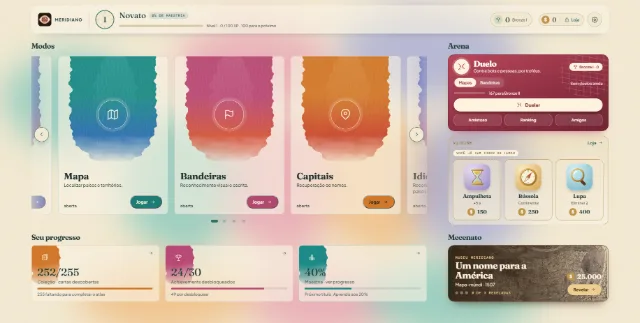
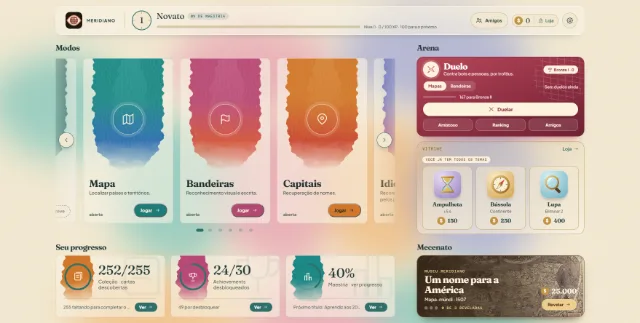
feat(hub): modos Gentílicos e Moedas "em breve", progresso com anéis, botão Amigos e largura de 1560 px
Carrossel: dois cartões "Em breve" (Gentílicos, Moedas). Cabeçalho: sai o chip de elo (duplicava o Duelo), entra Amigos,
marca maior e barra de XP no meio. Seu progresso: tiles com anel, número grande, marca d'água e botão Ver.
Hub e Loja limitados a 1560 px; prévias dos temas regeradas para o Hub atual.

diff --git a/src/hub.css b/src/hub.css
@@ -10,8 +10,8 @@
 /* ───────── header fino ───────── */
 .hx .hub-bar{display:flex;align-items:center;gap:18px;height:80px;min-height:0;padding:0 18px;margin:0 0 4px;overflow:visible;border-radius:18px}
 .hx .hub-meridian,.hx .hub-rule,.hx .hub-eyebrow{display:none}
-.hx .hub-brand{display:flex;flex-direction:row;align-items:center;gap:10px;flex:none;padding:0 18px 0 0;border-right:1px solid var(--line);color:var(--ink);font-size:11.5px;font-weight:800;letter-spacing:.12em;white-space:nowrap}
-.hx .hub-brand .brand-logo{width:38px;height:38px}
+.hx .hub-brand{display:flex;flex-direction:row;align-items:center;gap:12px;flex:none;padding:0 26px 0 8px;border-right:1px solid var(--line);color:var(--ink);font-size:11.5px;font-weight:800;letter-spacing:.12em;white-space:nowrap}
+.hx .hub-brand .brand-logo{width:46px;height:46px;border-radius:12px}
 .hx .hub-brand span{padding-left:0}
 .hx .hub-player{display:grid;grid-template-columns:auto minmax(0,1fr);grid-template-areas:"ring head" "ring xp";column-gap:14px;row-gap:5px;align-items:center;flex:1;min-width:0;padding:0;border:0;justify-content:start}
 .hx .hub-level{grid-area:ring;width:54px;height:54px;margin:0}
@@ -27,10 +27,12 @@
 .hx .hub-xp{grid-area:xp;display:flex;flex-wrap:nowrap;align-items:center;gap:10px;margin:0;min-width:0;white-space:nowrap}
 .hx .hub-xp-label{flex:none}
 .hx .hub-xp-next{display:inline}
-.hx .hub-track{flex:0 1 240px;height:6px;margin:0}
+.hx .hub-track{flex:1 1 240px;max-width:560px;height:7px;margin:0}
 .hx .hub-xp-label{font-size:11px;color:var(--muted);overflow:hidden;text-overflow:ellipsis}
+.hx .hub-friends{display:inline-flex;align-items:center;gap:8px;flex:none;padding:0 16px 0 12px;height:42px;border:1px solid var(--line);border-radius:99px;background:var(--paper);color:var(--ink);font:700 12.5px 'Plus Jakarta Sans',sans-serif}
+.hx .hub-friends:hover{border-color:var(--green);color:var(--green)}
+@media (min-width:1280px){.hx .hub-badge{width:auto;padding:3px 11px 3px 8px;gap:6px}.hx .hub-badge-label{position:static;width:auto;height:auto;overflow:visible;clip:auto;font:700 11px 'Plus Jakarta Sans',sans-serif}}
 .hx .hub-stats{display:flex;align-items:center;gap:10px;flex:none;padding:0;border:0;justify-content:flex-end}
-.hx .hub-rank{display:inline-flex;align-items:center;gap:7px}
 .hx .hub-coin{margin:0;padding:5px 12px 5px 6px;gap:8px}
 .hx .hub-coin strong{font-size:18px}
 .hx .hub-coin-store{display:inline-flex;align-items:center;gap:5px;margin-left:2px;padding-left:9px;border-left:1px solid var(--line);color:var(--green);font:700 11.5px 'Plus Jakarta Sans',sans-serif}
@@ -41,7 +43,7 @@
 /* A página usa a largura que a janela der (até 1760 px): o Hub é a tela de entrada e as laterais ficavam vazias. A coluna da direita (Duelo, Vitrine) cresce
    com a janela e o vão entre as duas colunas também; os cartões de modo não encolhem, quem cede é o vão. */
 @media (min-width:1024px){
-  .hx.hub-content{max-width:1760px;padding-inline:clamp(24px,2.8vw,56px)}
+  .hx.hub-content{max-width:1560px;padding-inline:clamp(24px,2.8vw,56px)}
 }
 .hx-grid{display:grid;grid-template-columns:minmax(0,1fr) clamp(320px,24vw,460px);grid-template-rows:auto auto;column-gap:clamp(30px,3.2vw,60px);align-items:stretch}
 .hx-cell{display:flex;flex-direction:column;min-width:0}
@@ -85,6 +87,11 @@
 .hx-dots button{position:relative;width:26px;height:22px;padding:0;border:0;background:transparent}
 .hx-dots button::before{content:"";position:absolute;left:8px;top:7px;width:10px;height:8px;border-radius:99px;background:rgba(47,111,106,.28);transition:width .2s,left .2s}
 .hx-dots button[aria-current=true]::before{left:3px;width:20px;background:var(--green)}
+
+/* modos que ainda vêm (Gentílicos, Moedas): cartão na tinta do tema, sem jogar */
+[data-fam=gentilico],[data-fam=moedas]{--h:var(--green);--hb:var(--green);--hg:var(--green);--h2:var(--green);--on:#fff4df}
+.hx .family.hx-mode.is-soon{filter:saturate(.55);border-style:dashed}
+.hx-soon{display:inline-flex;align-items:center;gap:6px;padding:8px 14px;border:1.5px dashed currentColor;border-radius:99px;color:var(--ink);font:800 12px 'Plus Jakarta Sans',sans-serif;white-space:nowrap}
 
 /* ───────── Duelo ───────── */
 .hx-duel{position:relative;display:grid;gap:9px;padding:12px 16px 14px;border-radius:18px;border:1px solid var(--duel-c);background:linear-gradient(160deg,var(--duel-a),var(--duel-b) 60%,var(--duel-c));color:#fff4df;box-shadow:0 16px 26px -18px var(--duel-a);overflow:hidden;text-align:left}
@@ -158,18 +165,30 @@
 .hx-supply-art[data-supply=bussola]{background:radial-gradient(circle at 30% 22%,#fbebc4,#d2a24c)}
 .hx-supply-art[data-supply=ampulheta]{background:radial-gradient(circle at 30% 22%,#e7def5,#9582c0)}
 
-/* ───────── progresso (tiles verticais) ───────── */
+/* ───────── progresso (tiles com anel) ───────── */
 .hx-progress .section-label{margin-top:22px}
 .hx-progress .hub-progress-grid{flex:1;display:grid;grid-template-columns:repeat(3,minmax(0,1fr));gap:16px}
-.hx-progress .hub-progress-grid button{position:relative;display:grid;grid-template-columns:auto 1fr;grid-template-areas:"icon arrow" "text text";align-content:space-between;align-items:start;justify-items:stretch;gap:6px 8px;min-height:150px;height:100%;padding:14px 16px 13px;text-align:left}
-.hx-progress .hub-progress-icon{grid-area:icon;width:42px;height:42px}
-.hx-progress .hub-progress-icon svg{width:22px;height:22px}
-.hx-progress .hub-progress-grid button>svg{grid-area:arrow;position:static;justify-self:end;margin:0;color:var(--muted)}
-.hx-progress .hub-progress-text{grid-area:text;flex:none;display:grid;gap:0}
-.hx-progress .hub-progress-grid strong{font-size:30px;line-height:1;white-space:nowrap}
-.hx-progress .hub-progress-grid small{margin-top:4px;font-size:12.5px}
-.hx-progress .hub-progress-bar{display:block;height:5px;margin:9px 0 6px}
-.hx-progress .hub-progress-caption{display:block;font-size:11.5px;white-space:nowrap;overflow:hidden;text-overflow:ellipsis}
+.hx-progress .hub-progress-grid button{--tile:var(--green);position:relative;display:grid;grid-template-columns:auto minmax(0,1fr);grid-template-areas:"icon text" "foot foot";align-content:space-between;align-items:center;gap:12px 16px;min-height:170px;height:100%;padding:18px 20px 14px;overflow:hidden;text-align:left;transition:transform .15s,box-shadow .15s}
+.hx-progress .hub-progress-grid button:hover{transform:translateY(-3px);box-shadow:0 18px 28px -20px rgba(36,59,58,.6)}
+.hx-progress [data-tile=collection]{--tile:#b98a2e}.hx-progress [data-tile=achievements]{--tile:#b65f47}.hx-progress [data-tile=progress]{--tile:#2f8f83}
+:root[data-scheme=dark] .hx-progress [data-tile=collection]{--tile:#e8b84a}:root[data-scheme=dark] .hx-progress [data-tile=achievements]{--tile:#ee7968}:root[data-scheme=dark] .hx-progress [data-tile=progress]{--tile:#58d6d0}
+.hx-tile-mark{position:absolute;right:-26px;top:-30px;color:var(--tile);opacity:.07;pointer-events:none}
+.hx-tile-mark svg{width:170px;height:170px;stroke-width:1}
+.hx-progress .hub-progress-icon{grid-area:icon;position:relative;display:grid;place-items:center;width:62px;height:62px;margin:9px;border-radius:50%}
+.hx-progress .hub-progress-icon>svg:not(.hx-ring){width:30px;height:30px}
+.hx-progress .hub-progress-icon>svg.hx-ring{position:absolute;inset:-9px;width:calc(100% + 18px);height:calc(100% + 18px);margin:0;transform:rotate(-90deg)}
+.hx-ring circle{fill:none;stroke-width:4.5}
+.hx-ring-track{stroke:color-mix(in srgb,var(--tile) 20%,transparent)}
+.hx-ring-arc{stroke:var(--tile);stroke-linecap:round}
+.hx-progress .hub-progress-text{grid-area:text;display:grid;gap:0;min-width:0}
+.hx-progress .hub-progress-grid strong{font-size:36px;line-height:1;white-space:nowrap}
+.hx-progress .hub-progress-grid small{margin-top:5px;font-size:13px}
+.hx-progress .hub-progress-bar{display:none}
+.hx-tile-foot{grid-area:foot;position:relative;display:flex;align-items:center;justify-content:space-between;gap:10px;padding-top:11px;border-top:1px solid color-mix(in srgb,var(--tile) 24%,transparent)}
+.hx-progress .hub-progress-caption{display:block;min-width:0;font-size:12px;white-space:nowrap;overflow:hidden;text-overflow:ellipsis}
+.hx-tile-go{display:inline-flex;align-items:center;gap:5px;flex:none;padding:5px 12px;border-radius:99px;background:var(--tile);color:#fff;font:800 11.5px 'Plus Jakarta Sans',sans-serif}
+.hx-progress .hub-progress-grid button:hover .hx-tile-go{filter:brightness(.92)}
+:root[data-scheme=dark] .hx-tile-go{color:#0c1a24}
 
 /* ───────── Mecenato ───────── */
 .hx-mecenato .section-label{margin-top:22px}
@@ -220,10 +239,9 @@
   .hx .hub-track{flex:1 1 auto}
   .hx .hub-xp-label{display:none}
   .hx .hub-stats{gap:5px;padding:0;border:0}
-  .hx .hub-rank{padding:3px 9px;gap:4px;margin:0}
-  .hx .hub-rank i{display:none}
-  .hx .hub-rank small{display:none}
-  .hx .hub-rank strong{font-size:16px}
+  .hx .hub-friends{width:30px;height:30px;padding:0;justify-content:center}
+  .hx .hub-friends span{display:none}
+  .hx .hub-friends svg{width:17px;height:17px}
   .hx .hub-coin{margin:0;padding:3px 9px 3px 4px;gap:5px}
   .hx .hub-coin-store{display:none}
   .hx .hub-coin strong{font-size:14.5px}

diff --git a/src/components/screens.tsx b/src/components/screens.tsx
@@ -261,6 +261,11 @@ export function Hub({
   const isFamilyUnlocked = (item: (typeof familyItems)[number]) => item.family === "idiomas"
     ? unlocked("idiomas", "idioma-nome") || unlocked("idiomas", "idioma-pais")
     : unlocked(item.family, item.variant);
+  /** Modos que ainda vêm: aparecem no carrossel, sem jogar. */
+  const soonItems = [
+    { key: "gentilico", label: t.families.gentilico, description: t.hub.familyDescriptions.gentilico, icon: "people" as const },
+    { key: "moedas", label: t.families.moedas, description: t.hub.familyDescriptions.moedas, icon: "coins" as const },
+  ];
   const level = economy?.level ?? 1;
   const xpInLevel = Math.max(0, (economy?.xp ?? 0) - (economy?.xpBase ?? 0));
   const xpSpan = Math.max(1, (economy?.xpNext ?? 100) - (economy?.xpBase ?? 0));
@@ -300,6 +305,11 @@ export function Hub({
       </div>
     </div>;
   };
+  const soonCard = (item: (typeof soonItems)[number]) => <div key={item.key} data-fam={item.key} className="family hx-mode is-soon">
+    <div className="family-visual"><div className="family-geo" /><div className="family-icon"><Icon type={item.icon} /></div></div>
+    <div className="family-copy"><h3>{item.label}</h3><p>{item.description}</p></div>
+    <div className="family-footer"><span className="hx-stat" /><span className="hx-soon"><Icon type="clock" size={14} /> {t.hub.soon}</span></div>
+  </div>;
   return (
     <main className="content hub-content hx">
       <h1 className="sr-only">Meridiano</h1>
@@ -324,7 +334,7 @@ export function Hub({
           </div>
         </div>
         <div className="hub-stats">
-          {onOpenLeague && <button type="button" className="hub-rank" data-league={league.league} aria-label={t.duel.chipAria(formatNumber(trophies), leagueLabel)} title={leagueLabel} onClick={onOpenLeague}><i aria-hidden="true"><Icon type="achievements" size={15} /></i><strong>{formatNumber(trophies)}</strong><small>{leagueLabel}</small></button>}
+          {arenas?.onFriends && <button type="button" className="hub-friends" aria-label={t.hub.duelFriends} title={t.hub.duelFriends} onClick={arenas.onFriends}><Icon type="people" size={19} /><span>{t.hub.duelFriends}</span></button>}
           <button type="button" className="hub-coin" aria-label={t.hub.coinAria(formatNumber(economy?.balance ?? 0))} title={t.nav.store} onClick={() => onNavigate?.("store")}><i aria-hidden="true">$</i><strong>{formatNumber(economy?.balance ?? 0)}</strong><span className="hub-coin-store"><Icon type="store" size={15} /> {t.nav.store}</span></button>
           <button type="button" className="hub-gear" aria-label={t.nav.openOptions} title={t.nav.options} onClick={() => onNavigate?.("options")}><Icon type="settings" /></button>
         </div>
@@ -332,7 +342,7 @@ export function Hub({
       <div className="hx-grid">
         <section className="hx-cell hx-modes" aria-labelledby="hx-modes-title">
           <div className="section-label"><h2 id="hx-modes-title">{t.hub.modesTitle}</h2></div>
-          <HubCarousel label={t.hub.modesRegion}>{familyItems.map(modeCard)}</HubCarousel>
+          <HubCarousel label={t.hub.modesRegion}>{[...familyItems.map(modeCard), ...soonItems.map(soonCard)]}</HubCarousel>
         </section>
         <section className="hx-cell hx-arena" aria-labelledby="hx-arena-title">
           <div className="section-label"><h2 id="hx-arena-title">{t.hub.arenaTitle}</h2></div>
@@ -342,7 +352,12 @@ export function Hub({
         <section className="hx-cell hx-progress hub-progress" aria-labelledby="hub-progress-title">
           <div className="section-label"><h2 id="hub-progress-title">{t.hub.yourProgress}</h2></div>
           <div className="hub-progress-grid">
-            {progressTiles.map((tile) => <button type="button" key={tile.key} data-tile={tile.key} onClick={() => onNavigate?.(tile.target)}><span className="hub-progress-icon"><Icon type={tile.icon} /></span><span className="hub-progress-text"><strong>{tile.big}</strong><small>{tile.label}</small><span className="hub-progress-bar" aria-hidden="true"><i style={{ width: `${tile.pct}%` }} /></span><em className="hub-progress-caption">{tile.caption}</em></span><Icon type="arrow" /></button>)}
+            {progressTiles.map((tile) => <button type="button" key={tile.key} data-tile={tile.key} onClick={() => onNavigate?.(tile.target)}>
+              <span className="hx-tile-mark" aria-hidden="true"><Icon type={tile.icon} size={150} /></span>
+              <span className="hub-progress-icon"><svg className="hx-ring" viewBox="0 0 72 72" aria-hidden="true"><circle className="hx-ring-track" cx="36" cy="36" r="32" /><circle className="hx-ring-arc" cx="36" cy="36" r="32" strokeDasharray={`${2 * Math.PI * 32 * Math.min(100, tile.pct) / 100} ${2 * Math.PI * 32}`} /></svg><Icon type={tile.icon} /></span>
+              <span className="hub-progress-text"><strong>{tile.big}</strong><small>{tile.label}</small><span className="hub-progress-bar" aria-hidden="true"><i style={{ width: `${tile.pct}%` }} /></span></span>
+              <span className="hx-tile-foot"><em className="hub-progress-caption">{tile.caption}</em><span className="hx-tile-go" aria-hidden="true">{t.hub.progressGo} <Icon type="arrow" size={14} /></span></span>
+            </button>)}
           </div>
         </section>
         <section className="hx-cell hx-mecenato" aria-labelledby="hx-mec-title">

diff --git a/src/components/icons.tsx b/src/components/icons.tsx
@@ -32,7 +32,9 @@ export type IconType =
   | "compass"
   | "hourglass"
   | "check"
-  | "close";
+  | "close"
+  | "people"
+  | "coins";
 
 export function Icon({ type, size = 18 }: { type: IconType; size?: number }) {
   return (
@@ -70,6 +72,8 @@ export function Icon({ type, size = 18 }: { type: IconType; size?: number }) {
         </>
       )}
       {type === "cross" && <path d="M12 3v18M3 12h18" />}
+      {type === "people" && <><circle cx="9" cy="8" r="3.2" /><path d="M3 20c0-3.4 2.7-6 6-6s6 2.6 6 6" /><circle cx="17" cy="9" r="2.5" /><path d="M16 14.2c3 .1 5 2.3 5 5.8" /></>}
+      {type === "coins" && <><ellipse cx="12" cy="7" rx="7" ry="3" /><path d="M5 7v5c0 1.7 3.1 3 7 3s7-1.3 7-3V7" /><path d="M5 12v5c0 1.7 3.1 3 7 3s7-1.3 7-3v-5" /></>}
       {type === "close" && <path d="M6 6l12 12M18 6L6 18" />}
       {type === "settings" && <><path d="M10.325 4.317c.426-1.756 2.924-1.756 3.35 0a1.724 1.724 0 0 0 2.573 1.066c1.543-.94 3.31.826 2.37 2.37a1.724 1.724 0 0 0 1.065 2.572c1.756.426 1.756 2.924 0 3.35a1.724 1.724 0 0 0-1.066 2.573c.94 1.543-.826 3.31-2.37 2.37a1.724 1.724 0 0 0-2.572 1.065c-.426 1.756-2.924 1.756-3.35 0a1.724 1.724 0 0 0-2.573-1.066c-1.543.94-3.31-.826-2.37-2.37a1.724 1.724 0 0 0-1.065-2.572c-1.756-.426-1.756-2.924 0-3.35a1.724 1.724 0 0 0 1.066-2.573c-.94-1.543.826-3.31 2.37-2.37 1 .608 2.296.07 2.572-1.065Z" /><circle cx="12" cy="12" r="3" /></>}
       {type === "collection" && <><path d="M5 5h11a2 2 0 0 1 2 2v12H7a2 2 0 0 1-2-2V5Z" /><path d="M8 2h11a2 2 0 0 1 2 2v12M8 9h7M8 13h7" /></>}

diff --git a/src/store.css b/src/store.css
@@ -1,5 +1,5 @@
 /* Loja reimaginada (03/10/2026). Só layout e as peças novas (`st-*`); usa as variáveis de cor de cada tema. */
-.st-screen{max-width:1760px;padding-inline:clamp(24px,2.8vw,56px)}
+.st-screen{max-width:1560px;padding-inline:clamp(24px,2.8vw,56px)}
 .st{display:flex;flex-direction:column}
 .st-bar{display:flex;align-items:center;gap:16px;padding:10px 16px;border:1px solid var(--line);border-radius:18px;background:color-mix(in srgb,var(--paper) 70%,transparent);box-shadow:0 14px 26px -22px rgba(36,59,58,.5)}
 .st-back{display:inline-flex;align-items:center;gap:8px;min-height:40px;padding:8px 16px;border:1px solid var(--line);border-radius:99px;background:var(--paper);color:var(--ink);font:700 13px 'Plus Jakarta Sans',sans-serif;cursor:pointer}

diff --git a/src/domain/i18n/es.ts b/src/domain/i18n/es.ts
@@ -55,6 +55,8 @@ export const es: Messages = {
     bandeiras: "Banderas",
     capitais: "Capitales",
     idiomas: "Idiomas",
+    gentilico: "Gentilicios",
+    moedas: "Monedas",
   },
   hub: {
     profileAria: "Perfil de actividad",
@@ -84,7 +86,11 @@ export const es: Messages = {
       bandeiras: "Reconocimiento visual y escritura.",
       capitais: "Recordar los nombres.",
       idiomas: "Reconocer idiomas por su escritura y sus países.",
+      gentilico: "¿De dónde es cada pueblo? Gente y lugares.",
+      moedas: "El dinero de cada país.",
     },
+    soon: "Próximamente",
+    progressGo: "Ver",
     yourProgress: "Tu progreso",
     tileCollection: "Colección · cartas descubiertas",
     tileAchievements: "Logros desbloqueados",

diff --git a/src/domain/i18n/en.ts b/src/domain/i18n/en.ts
@@ -55,6 +55,8 @@ export const en: Messages = {
     bandeiras: "Flags",
     capitais: "Capitals",
     idiomas: "Languages",
+    gentilico: "Demonyms",
+    moedas: "Currencies",
   },
   hub: {
     profileAria: "Activity profile",
@@ -84,7 +86,11 @@ export const en: Messages = {
       bandeiras: "Visual recognition and spelling.",
       capitais: "Recall the names.",
       idiomas: "Recognize languages by their script and countries.",
+      gentilico: "Who comes from where? People and places.",
+      moedas: "The money of every country.",
     },
+    soon: "Coming soon",
+    progressGo: "Open",
     yourProgress: "Your progress",
     tileCollection: "Collection · cards found",
     tileAchievements: "Achievements unlocked",

diff --git a/src/domain/i18n/pt.ts b/src/domain/i18n/pt.ts
@@ -55,6 +55,8 @@ export const pt = {
     bandeiras: "Bandeiras",
     capitais: "Capitais",
     idiomas: "Idiomas",
+    gentilico: "Gentílicos",
+    moedas: "Moedas",
   },
   hub: {
     profileAria: "Perfil de atividade",
@@ -85,7 +87,11 @@ export const pt = {
       bandeiras: "Reconhecimento visual e escrita.",
       capitais: "Recuperação de nomes.",
       idiomas: "Reconhecer idiomas pela escrita e pelos países.",
+      gentilico: "Quem nasce onde? O povo e o país.",
+      moedas: "O dinheiro de cada país.",
     },
+    soon: "Em breve",
+    progressGo: "Ver",
     yourProgress: "Seu progresso",
     tileCollection: "Coleção · cartas descobertas",
     tileAchievements: "Achievements desbloqueados",

diff --git a/CLAUDE.md b/CLAUDE.md
@@ -53,7 +53,7 @@ Este arquivo descreve o **rebuild** (estado em 25/09/2026). O jogo antigo, um ú
 Hub (4 famílias: Mapa, Bandeiras, Capitais, Idiomas; carrossel no celular; seletor Solo | Duelo, ver 3.2d) → "Configure a partida" (`match-config.tsx`: **Modo, Ritmo, Rodadas, Recorte, Filtro "Só membros da ONU"**, ligado por padrão desde 26/09; a escolha vale até fechar o app, não é gravada) → partida → resultado (`result-screen.tsx`, moedas/XP). Fora da partida: Progresso (Perfil, Maestria, Conquistas, Desempenho), Coleção (Países / Históricas), Conquistas, Loja (temas), Opções (idioma, tema, movimento reduzido, barra de tempo, progresso, mapa offline, debug). `useLeaveGuard`: sair no meio **não paga moedas nem XP**; com ao menos uma resposta pede confirmação.
 
 ### 3.2e Hub novo (03/10/2026, em etapas; mocks aprovados em `../mockups-carta-cega/hub-final`)
-O Hub (`screens.tsx`, `hub-parts.tsx`, `hub.css`) foi refeito: **header fino** de uma linha (marca, anel de nível com a moldura da liga, título, ícones dos títulos, chip de maestria, barra de XP, chip de troféus, moedas com a palavra "Loja", engrenagem; partidas e rodadas saíram do Hub, seguem no Progresso) e **grade 2×2**: à esquerda o **carrossel dos modos** (`HubCarousel`, **em laço**: 3 cartões inteiros por vez no desktop, 2 em tablet e 1 no celular, com a borda do vizinho aparecendo dos dois lados, setas nos dois sentidos, pontos, deslize por toque e clique no vizinho para avançar; hoje Mapa, Bandeiras, Capitais e Idiomas. O laço é a fila renderizada 3 vezes, só a do meio interativa e as outras `inert`, e a posição volta em silêncio para a do meio quando o deslize termina; o passo é medido com `getBoundingClientRect`, porque `offsetLeft` arredonda e o erro cresce a cada cartão) e embaixo "Seu progresso" (3 tiles verticais); à direita o **Duelo** (`HubDuel`) e a **Vitrine** (`HubShowcase`) e embaixo o **Mecenato** (`HubMuseum`, abre a aba do Museu da Coleção por `initialAlbum`). O interruptor Solo | Duelo **saiu**: o Duelo mora no próprio cartão (escada Mapas | Bandeiras, liga e troféus, últimos 5 resultados, "Duelar" na fila valendo, e Amistoso, Ranking e Amigos; buscando, vira "Procurando… m:ss", duelar contra bot e cancelar). O painel "Próximos prêmios" da arena antigo foi trocado pela barra "N para a próxima divisão" no cartão; `DuelArenas`/`duelMode` seguem no código sem uso no Hub (limpeza pendente). **Vitrine:** `pickShowcaseTheme` (`hub-showcase.ts`, `test:hub-showcase`) mostra o tema mais caro que cabe no saldo (ou o mais barato que falta); **com todos os temas comprados destaca os três suprimentos** (Ampulheta, Bússola e Lupa, com ilustrações próprias em `supply-art.tsx`, usadas também na Loja) e o toque leva à Loja já na aba Suprimentos (`onOpenSupplies`, `storeTab` no `app.tsx`). **Cartão de modo:** precisão do pilar (`titleScore`) vinda do `syncAchievements` do app. **Largura (04/10, pedido do Enzo):** o Hub usa até 1760 px (antes 1168: as laterais ficavam vazias), com a coluna da direita entre 320 e 460 px e um vão de 30 a 60 px entre as colunas; os cartões de modo não encolhem, quem cede é o vão. **Celular (≤760 px):** tudo numa tela e sem rolagem: cabeçalho, **um modo por vez** num retângulo grande (carrossel em laço, com os vizinhos espiando e setas), Duelo em faixa e, na última linha antes da barra de baixo, Vitrine e Mecenato lado a lado; **o progresso saiu do celular** (a barra de baixo já cumpre o papel) e as pílulas "Mais modos" também (todos os modos estão no carrossel). Em telefone baixo (≤700 px de altura) somem a descrição e o resumo da última partida do cartão. CSS: `hub.css` vem depois do `index.css` e antes dos temas; os temas seguem pintando `.hub-bar`, `.family` e os tiles; as peças novas só usam variáveis de cor. **"Continuar" embutido (etapa 2):** ao começar uma partida solo o app grava a configuração do modo (`carta-last-config:<modo>`, `parseLastConfig` em `presets.ts`, testado em `test:presets`); o cartão mostra uma pílula com ela (nome da favorita, ex. "Escrita · Mundo · 20"), o botão **Continuar** (repete sem passar pela configuração; `continueGame` no `app.tsx`, que cai na configuração se o modo ou o corte de rodadas não estiver liberado) e o ícone de **ajustar** (abre a configuração); sem partida gravada, só "Jogar". O cartão inteiro é uma sobreposição (`.hx-hit`) que abre a configuração. A barra de baixo do celular passou a ter os cinco destinos com rótulo (Modos, Coleção, Conquistas, Progresso e **Loja**; as Opções abrem pela engrenagem do Hub). **Loja reimaginada (etapa 3, 03/10/2026; `store-view.tsx`, `store.css`, `domain/store-catalog.ts`, `test:store-catalog`):** a tela é uma vitrine, não uma lista: barra fina (← Hub, "Loja", saldo), **destaque** (`pickShowcaseTheme`, o mesmo do Hub: o tema mais caro que cabe, senão o mais barato que falta, com barra "Você tem X · faltam Y"; some quando todos os temas são seus), **abas** Tudo, Temas, Modos, Rodadas, Suprimentos e Ligas (contadores do que falta comprar, `storeCounts`), **"Sugestões para você"** (`storeSuggestions`: o modo mais barato, o tema mais perto do saldo, o corte de rodadas mais barato e um suprimento), seções por tipo e a faixa do Mecenato (abre a aba Museu da Coleção). **Tudo o que se compra passa por uma confirmação** (`PurchaseDialog`: preço, saldo, depois ou quanto falta; folha inferior no celular; Esc fecha; suprimento tem seletor de quantidade). Modos à venda vêm de `POLICIES` (custo > 0) e se compram com `unlockContent(família, variante, "mundo")`; cortes de rodada com `unlockRounds`; temas e suprimentos como antes. `Experimentar um tema por uma partida` (do mock) **não foi feito**. **Largura e cor (04/10):** a Loja usa a mesma largura do Hub (até 1760 px) com colunas que se adaptam (`auto-fill`); as linhas curtas da aba Tudo mostram 4 cartões (6 acima de 1500 px) e os cartões de modo levam a cor da família (Mapa, Bandeiras, Capitais, Idiomas; `modeFam`), enquanto rodadas e suprimentos ficam na tinta do tema. **Prévias dos temas** (`scripts/build-theme-previews.mjs`, mostradas no destaque e nos cartões da Loja e na Vitrine) foram regeradas para o Hub novo: BASE padrão `127.0.0.1:5101` (servidor de desenvolvimento, nunca a 5000), perfil de amostra com todos os temas (por isso a Vitrine sai com os suprimentos em todas), `captureBeyondViewport:false` (o padrão do Puppeteer redimensiona a janela e o scroll-snap do carrossel trocava de cartão) e a captura é reduzida no próprio Chrome para 640×323, uns 20 KB cada. Rode de novo quando o Hub ou o CSS de um tema mudar. **O CSS antigo `store-*` (em `themes.css`, `themes-league.css`, `themes-elaborate.css`) ficou sem uso**, exceto `.store-swatches` (também usado pela Vitrine do Hub); limpeza pendente. Cores só por variáveis do tema (`color-mix` com `--brass`, `--green`, `--ink`), então os temas escuros não pedem regra própria; `audit-theme.mjs <tema> loja` (agora com as abas novas e as duas confirmações) fecha com 0 violações em Pigmentos, Noturno, Cartógrafo, Prata, Aquarela e Atlas no desktop e em Pigmentos, Noturno, Cartógrafo e Atlas no celular. Junto saíram o ícone `check` e o ícone `close` (o `cross` do projeto desenha um "+") e a barra superior genérica (`.topbar`) dos temas escuros, que ficava creme (`themes-dark.css`). **Pendente:** a Mesa de jogo (configuração em uma tela só, em `hub-v10` n4–n7).
+O Hub (`screens.tsx`, `hub-parts.tsx`, `hub.css`) foi refeito: **header fino** de uma linha (marca, anel de nível com a moldura da liga, título, ícones dos títulos, chip de maestria, barra de XP, chip de troféus, moedas com a palavra "Loja", engrenagem; partidas e rodadas saíram do Hub, seguem no Progresso) e **grade 2×2**: à esquerda o **carrossel dos modos** (`HubCarousel`, **em laço**: 3 cartões inteiros por vez no desktop, 2 em tablet e 1 no celular, com a borda do vizinho aparecendo dos dois lados, setas nos dois sentidos, pontos, deslize por toque e clique no vizinho para avançar; hoje Mapa, Bandeiras, Capitais e Idiomas. O laço é a fila renderizada 3 vezes, só a do meio interativa e as outras `inert`, e a posição volta em silêncio para a do meio quando o deslize termina; o passo é medido com `getBoundingClientRect`, porque `offsetLeft` arredonda e o erro cresce a cada cartão) e embaixo "Seu progresso" (3 tiles verticais); à direita o **Duelo** (`HubDuel`) e a **Vitrine** (`HubShowcase`) e embaixo o **Mecenato** (`HubMuseum`, abre a aba do Museu da Coleção por `initialAlbum`). O interruptor Solo | Duelo **saiu**: o Duelo mora no próprio cartão (escada Mapas | Bandeiras, liga e troféus, últimos 5 resultados, "Duelar" na fila valendo, e Amistoso, Ranking e Amigos; buscando, vira "Procurando… m:ss", duelar contra bot e cancelar). O painel "Próximos prêmios" da arena antigo foi trocado pela barra "N para a próxima divisão" no cartão; `DuelArenas`/`duelMode` seguem no código sem uso no Hub (limpeza pendente). **Vitrine:** `pickShowcaseTheme` (`hub-showcase.ts`, `test:hub-showcase`) mostra o tema mais caro que cabe no saldo (ou o mais barato que falta); **com todos os temas comprados destaca os três suprimentos** (Ampulheta, Bússola e Lupa, com ilustrações próprias em `supply-art.tsx`, usadas também na Loja) e o toque leva à Loja já na aba Suprimentos (`onOpenSupplies`, `storeTab` no `app.tsx`). **Cartão de modo:** precisão do pilar (`titleScore`) vinda do `syncAchievements` do app. **Ajustes de 04/10 (feedback do Enzo no link ao vivo):** o **chip de troféus/elo saiu do cabeçalho** (duplicava a pílula do cartão do Duelo, que segue abrindo a Liga) e entrou o botão **Amigos** (`.hub-friends`, ícone `people`; só ícone no celular); a marca ficou maior e o XP ocupa o meio; com a largura do cabeçalho sobrando, os selos de título mostram o nome a partir de 1280 px. O carrossel ganhou **Gentílicos e Moedas como "Em breve"** (cartões `.is-soon`, sem ação, na tinta do tema; quando o modo existir, vira item de `familyItems`). **"Seu progresso"** foi refeito no desktop: cada tile tem um **anel de progresso** em volta do ícone, o número grande, uma marca d'água do ícone, a legenda e um botão "Ver" (cor própria por tile, mais clara no esquema escuro; `--tile`). **Largura (04/10, pedido do Enzo):** o Hub usa até 1560 px (antes 1168; testei 1760 e as laterais do cabeçalho ficavam vazias, 04/10), com a coluna da direita entre 320 e 460 px e um vão de 30 a 60 px entre as colunas; os cartões de modo não encolhem, quem cede é o vão. **Celular (≤760 px):** tudo numa tela e sem rolagem: cabeçalho, **um modo por vez** num retângulo grande (carrossel em laço, com os vizinhos espiando e setas), Duelo em faixa e, na última linha antes da barra de baixo, Vitrine e Mecenato lado a lado; **o progresso saiu do celular** (a barra de baixo já cumpre o papel) e as pílulas "Mais modos" também (todos os modos estão no carrossel). Em telefone baixo (≤700 px de altura) somem a descrição e o resumo da última partida do cartão. CSS: `hub.css` vem depois do `index.css` e antes dos temas; os temas seguem pintando `.hub-bar`, `.family` e os tiles; as peças novas só usam variáveis de cor. **"Continuar" embutido (etapa 2):** ao começar uma partida solo o app grava a configuração do modo (`carta-last-config:<modo>`, `parseLastConfig` em `presets.ts`, testado em `test:presets`); o cartão mostra uma pílula com ela (nome da favorita, ex. "Escrita · Mundo · 20"), o botão **Continuar** (repete sem passar pela configuração; `continueGame` no `app.tsx`, que cai na configuração se o modo ou o corte de rodadas não estiver liberado) e o ícone de **ajustar** (abre a configuração); sem partida gravada, só "Jogar". O cartão inteiro é uma sobreposição (`.hx-hit`) que abre a configuração. A barra de baixo do celular passou a ter os cinco destinos com rótulo (Modos, Coleção, Conquistas, Progresso e **Loja**; as Opções abrem pela engrenagem do Hub). **Loja reimaginada (etapa 3, 03/10/2026; `store-view.tsx`, `store.css`, `domain/store-catalog.ts`, `test:store-catalog`):** a tela é uma vitrine, não uma lista: barra fina (← Hub, "Loja", saldo), **destaque** (`pickShowcaseTheme`, o mesmo do Hub: o tema mais caro que cabe, senão o mais barato que falta, com barra "Você tem X · faltam Y"; some quando todos os temas são seus), **abas** Tudo, Temas, Modos, Rodadas, Suprimentos e Ligas (contadores do que falta comprar, `storeCounts`), **"Sugestões para você"** (`storeSuggestions`: o modo mais barato, o tema mais perto do saldo, o corte de rodadas mais barato e um suprimento), seções por tipo e a faixa do Mecenato (abre a aba Museu da Coleção). **Tudo o que se compra passa por uma confirmação** (`PurchaseDialog`: preço, saldo, depois ou quanto falta; folha inferior no celular; Esc fecha; suprimento tem seletor de quantidade). Modos à venda vêm de `POLICIES` (custo > 0) e se compram com `unlockContent(família, variante, "mundo")`; cortes de rodada com `unlockRounds`; temas e suprimentos como antes. `Experimentar um tema por uma partida` (do mock) **não foi feito**. **Largura e cor (04/10):** a Loja usa a mesma largura do Hub (até 1560 px) com colunas que se adaptam (`auto-fill`); as linhas curtas da aba Tudo mostram 4 cartões (6 acima de 1500 px) e os cartões de modo levam a cor da família (Mapa, Bandeiras, Capitais, Idiomas; `modeFam`), enquanto rodadas e suprimentos ficam na tinta do tema. **Prévias dos temas** (`scripts/build-theme-previews.mjs`, mostradas no destaque e nos cartões da Loja e na Vitrine) foram regeradas para o Hub novo: BASE padrão `127.0.0.1:5101` (servidor de desenvolvimento, nunca a 5000), perfil de amostra com todos os temas (por isso a Vitrine sai com os suprimentos em todas), `captureBeyondViewport:false` (o padrão do Puppeteer redimensiona a janela e o scroll-snap do carrossel trocava de cartão) e a captura é reduzida no próprio Chrome para 640×323, uns 20 KB cada. Rode de novo quando o Hub ou o CSS de um tema mudar. **O CSS antigo `store-*` (em `themes.css`, `themes-league.css`, `themes-elaborate.css`) ficou sem uso**, exceto `.store-swatches` (também usado pela Vitrine do Hub); limpeza pendente. Cores só por variáveis do tema (`color-mix` com `--brass`, `--green`, `--ink`), então os temas escuros não pedem regra própria; `audit-theme.mjs <tema> loja` (agora com as abas novas e as duas confirmações) fecha com 0 violações em Pigmentos, Noturno, Cartógrafo, Prata, Aquarela e Atlas no desktop e em Pigmentos, Noturno, Cartógrafo e Atlas no celular. Junto saíram o ícone `check` e o ícone `close` (o `cross` do projeto desenha um "+") e a barra superior genérica (`.topbar`) dos temas escuros, que ficava creme (`themes-dark.css`). **Pendente:** a Mesa de jogo (configuração em uma tela só, em `hub-v10` n4–n7).
 - **Cuidado ao verificar o build (aprendido em 03/10):** o servidor da porta 5000 roda `vite preview` com a pasta do projeto como `cwd`, então serve o **`dist/` do próprio repositório**. `npm run build` aqui **publica na hora** o que estiver na árvore de trabalho, sem passar pelo `servidor.mjs`. Para só conferir que o build fecha, rode o `tsc -b` e `npx vite build --outDir .tmp-build --emptyOutDir` (a pasta está no `.gitignore` por `.tmp-*`; apague depois). Desde 04/10 o plugin de precache do `vite.config.ts` respeita o `outDir` (antes gravava no `dist/` fixo e o `--outDir` ainda mexia no `dist/` ao vivo); conferido que o `dist/` não muda. `test:manifest` e o resto do `npm run build` leem o `dist/`, então só rodam no build de verdade. `audit-theme.mjs` (cenas hub/duelo/revelacao/liga/config) passa com 0 violações em Pigmentos, Noturno, Cartógrafo, Prata, Atlas, Aquarela e Ateliê (desktop) e Pigmentos/Noturno (celular).
 
 ### 3.2b Favoritas (configurações guardadas)
